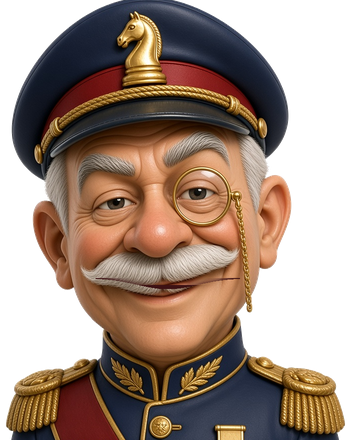
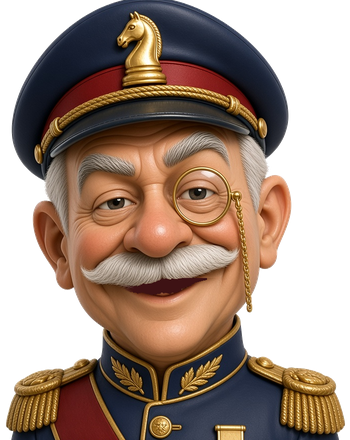
Explainer clips: speech cloud, word-by-word text, steady moustache (#133)
* Explainer clips: fixed moustache, speech cloud, words pop in one by one (test cut STOPAT)

Claude-Session: https://claude.ai/code/session_01242z9HPDfponsdX6jdQH6z

* Talking General: no moustache hair pulled into the lower lip

Claude-Session: https://claude.ai/code/session_01242z9HPDfponsdX6jdQH6z

* Speech cloud: tail from the lower edge to the General's mouth

Claude-Session: https://claude.ai/code/session_01242z9HPDfponsdX6jdQH6z

* Speech cloud: short curved tail with a round tip

Claude-Session: https://claude.ai/code/session_01242z9HPDfponsdX6jdQH6z

* Explainer clip final: README for the speech cloud and test cuts

Claude-Session: https://claude.ai/code/session_01242z9HPDfponsdX6jdQH6z

---------

diff --git a/tools/clip/capture.js b/tools/clip/capture.js
@@ -12,7 +12,7 @@ const pop=(p,t,sq)=>p.evaluate(([t,sq])=>{ const old=document.getElementById('vi
   const w=e.firstChild.offsetWidth, x=Math.max(w/2+10,Math.min(innerWidth-w/2-10,(q.x+1)/2*innerWidth)); e.style.left=x+'px'; },[t,sq]);
 // spoken caption at the bottom (wraps); empty text hides it
 const cap=(p,t)=>p.evaluate(t=>{ const g=document.getElementById('vidGen'), bub=document.getElementById('vidBub');
-  if(g&&g.style.display==='block'){ bub.innerHTML=t||''; bub.style.display=t?'block':'none'; return; }
+  if(g&&g.style.display==='block'){ window.__bubSet(t); return; }
   let e=document.getElementById('vidCap'); if(!e){ e=document.createElement('div'); e.id='vidCap'; document.body.appendChild(e); }
   e.innerHTML=t||''; e.style.display=t?'block':'none'; },t);
 // drawn over the board every frame: box = the squares the lone black king is confined to by the white queen (red),
@@ -39,9 +39,34 @@ const ov=(p,o)=>p.evaluate(o=>{ let svg=document.getElementById('vidOv'); if(!sv
 const gen=(p,dir,on)=>p.evaluate(async([dir,on])=>{ let g=document.getElementById('vidGen');
   if(!g){ g=document.createElement('div'); g.id='vidGen'; for(let k=0;k<6;k++){ const i=new Image(); i.src='/marketing/'+dir+'/general/m'+k+'.png'; g.appendChild(i); }
     document.body.appendChild(g); const b=document.createElement('div'); b.id='vidBub'; document.body.appendChild(b);
-    window.__env=await (await fetch('/marketing/'+dir+'/general/env.json')).json(); await Promise.all([...g.children].map(i=>i.decode())); }
+    window.__env=await (await fetch('/marketing/'+dir+'/general/env.json')).json(); await Promise.all([...g.children].map(i=>i.decode()));
+    // speech cloud: the text is laid out in full (so the cloud has its final size at once), then every word pops in
+    // when the General says it (spread over the sentence by letters, ~15 letters a second)
+    window.__bubSet=t=>{ const bub=document.getElementById('vidBub'); window.__bub=null; if(!t){ bub.style.display='none'; return; }
+      bub.innerHTML='<svg class="cloud"></svg><div class="txt"></div>'; const tx=bub.lastChild; tx.innerHTML=t;
+      const words=[]; (function wrap(n){ for(const c of [...n.childNodes]){ if(c.nodeType===3){ const f=document.createDocumentFragment();
+          for(const part of c.textContent.split(/(\s+)/)){ if(!part) continue; if(/^\s+$/.test(part)){ f.appendChild(document.createTextNode(part)); continue; }
+            const sp=document.createElement('span'); sp.className='w'; sp.textContent=part; f.appendChild(sp); words.push(sp); } c.replaceWith(f); } else wrap(c); } })(tx);
+      bub.style.display='block'; const W=tx.offsetWidth, H=tx.offsetHeight, P=16, w=W+2*P, h=H+2*P;
+      // scalloped cloud around the text box plus a short pointed tail to the General on the left
+      const r=13, side=(x0,y0,x1,y1)=>{ const L=Math.hypot(x1-x0,y1-y0), n=Math.max(2,Math.round(L/(2*r))); let d='';
+        for(let i=1;i<=n;i++){ const x=x0+(x1-x0)*i/n, y=y0+(y1-y0)*i/n, R=L/n*.62; d+=` A ${R} ${R} 0 0 1 ${x.toFixed(1)} ${y.toFixed(1)}`; } return d; };
+      // a short, curved tail with a round tip from the cloud's lower edge towards the General's mouth (only half way)
+      const gr=document.getElementById('vidGen').getBoundingClientRect(), bl=bub.getBoundingClientRect().left-P, bt=bub.getBoundingClientRect().top-P;
+      const B0=14, B1=60, mxp=gr.left+gr.width*.62-bl, myp=gr.top+gr.height*.62-bt, bx=(B0+B1)/2;
+      const Tx=bx+(mxp-bx)*.5, Ty=h+(myp-h)*.5, f=v=>v.toFixed(1);
+      const d='M 0 0'+side(0,0,w,0)+side(w,0,w,h)+side(w,h,B1,h)
+        +` Q ${f(B1-4)} ${f(h+(Ty-h)*.7)} ${f(Tx+4)} ${f(Ty-1)} A 5 5 0 0 1 ${f(Tx-2)} ${f(Ty+3)} Q ${f(B0+(Tx-B0)*.15)} ${f(h+(Ty-h)*.45)} ${B0} ${h}`
+        +side(B0,h,0,h)+side(0,h,0,0)+' Z';
+      const sv=bub.firstChild; sv.setAttribute('width',w); sv.setAttribute('height',h); sv.style.left=(-P)+'px'; sv.style.top=(-P)+'px';
+      sv.innerHTML='<path d="'+d+'" fill="#fffaf0" stroke="#15130f" stroke-width="3" stroke-linejoin="round"/>';
+      let acc=0; const total=words.reduce((a,x)=>a+x.textContent.length+1,0);
+      window.__bub={t0:performance.now(),words:words.map(x=>{ const at=acc/15; acc+=x.textContent.length+1; return {el:x,at}; }),total}; };
+  }
   g.style.display=on?'block':'none'; if(!on){ document.getElementById('vidBub').style.display='none'; window.__genTick=null; return; }
   window.__genTick=()=>{ const t=(performance.now()-window.__t0)/1000, f=Math.round(t*24), k=window.__env[f]||0;
+    const B=window.__bub; if(B){ const s=(performance.now()-B.t0)/1000; for(const w of B.words){ const u=Math.max(0,Math.min(1,(s-w.at)/.16)), e=1-Math.pow(1-u,3);
+      w.el.style.opacity=e; w.el.style.transform='translateY('+((1-e)*10).toFixed(1)+'px) scale('+(.6+.4*e).toFixed(3)+')'; } }
     [...g.children].forEach((im,i)=>im.style.visibility=i===k?'visible':'hidden');
     g.style.transform='rotate('+(k?Math.sin(t*9)*1.6*k/5:0)+'deg) translateY('+(-k*.6)+'px)'; };
   window.__genTick(); },[dir,on]);
@@ -362,7 +387,7 @@ const SCRIPTS={
  const START=+(process.env.START||0);
  const ONLY=+(process.env.ONLY||0); // re-render just the first ONLY frames (e.g. after changing the hook), keep the rest
  const t0=await p.evaluate(()=>{ window.__rec.length=0; window.__t0=performance.now(); return performance.now(); });
- const shoot=async(ms,each)=>{ const k=Math.round(ms/dtms); for(let i=0;i<k;i++){ if(each) await each(k>1?i/(k-1):1); await p.clock.runFor(dtms); if(n<START||(ONLY&&n>=ONLY)||(process.env.EVERY&&n%+process.env.EVERY)){ n++; continue; } await p.evaluate(()=>{ if(window.__badgeTick) window.__badgeTick(); if(window.__capTick) window.__capTick(); if(window.__ovTick) window.__ovTick(); if(window.__genTick) window.__genTick(); for(const a of document.getAnimations()){ if(a.__st===undefined){ a.__st=performance.now(); a.pause(); } a.currentTime=performance.now()-a.__st; } }); await p.screenshot({path:`${FR}/f${String(n++).padStart(5,'0')}.jpg`,type:'jpeg',quality:88}); } };
+ const shoot=async(ms,each)=>{ const k=Math.round(ms/dtms); for(let i=0;i<k;i++){ if(each) await each(k>1?i/(k-1):1); await p.clock.runFor(dtms); if(process.env.STOPAT&&n>=+process.env.STOPAT){ console.log('frames',n); process.exit(0); } if(n<START||(ONLY&&n>=ONLY)||(process.env.EVERY&&n%+process.env.EVERY)){ n++; continue; } await p.evaluate(()=>{ if(window.__badgeTick) window.__badgeTick(); if(window.__capTick) window.__capTick(); if(window.__ovTick) window.__ovTick(); if(window.__genTick) window.__genTick(); for(const a of document.getAnimations()){ if(a.__st===undefined){ a.__st=performance.now(); a.pause(); } a.currentTime=performance.now()-a.__st; } }); await p.screenshot({path:`${FR}/f${String(n++).padStart(5,'0')}.jpg`,type:'jpeg',quality:88}); } };
  // a piece is picked (select sound), then moves
  const mv=async(from,to,hold,each)=>{ if(from==='undo'){ await p.evaluate(()=>window.__v().undo()); return shoot(hold||0); } log.push([n/FPS,from,to]); await p.evaluate(([a,c])=>{ window.__rec.push([performance.now()-120,'sel',.8]); window.__mover=window.__v().pieces()[a]; window.__v().doMove({from:a,to:c}); },[from,to]); await shoot(hold,each&&(u=>each(u,to))); };
  if(SC.start) await fly(p,...SC.start.slice(0,4),1,SC.start[4]);

diff --git a/tools/clip/overlay.html b/tools/clip/overlay.html
@@ -23,10 +23,11 @@ body.compact #vidTitle .l2{top:3%;transition:top .5s ease-in-out}
 /* the talking General top left (mouth frames from the voice's loudness) with his speech bubble to the right */
 #vidGen{position:fixed;left:6px;top:8.5%;width:150px;height:189px;z-index:61;display:none;transform-origin:50% 90%}
 #vidGen img{position:absolute;inset:0;width:100%;height:100%;visibility:hidden;filter:drop-shadow(0 4px 10px rgba(0,0,0,.6))}
-#vidBub{position:fixed;left:160px;top:10%;max-width:300px;width:max-content;z-index:61;display:none;background:#fffaf0;color:#15130f;border:3px solid #15130f;border-radius:18px;padding:10px 14px;font-family:'Barlow Condensed',sans-serif;font-weight:700;font-size:27px;line-height:1.15;box-shadow:0 6px 16px rgba(0,0,0,.45)}
-#vidBub b{color:#b3261e}
-#vidBub::before{content:'';position:absolute;left:-17px;top:26px;border:9px solid transparent;border-right:16px solid #15130f}
-#vidBub::after{content:'';position:absolute;left:-11px;top:29px;border:6px solid transparent;border-right:12px solid #fffaf0}
+#vidBub{position:fixed;left:166px;top:9.5%;z-index:61;display:none}
+#vidBub .cloud{position:absolute;overflow:visible;filter:drop-shadow(0 6px 10px rgba(0,0,0,.45))}
+#vidBub .txt{position:relative;max-width:290px;width:max-content;font-family:'Barlow Condensed',sans-serif;font-weight:700;font-size:27px;line-height:1.15;color:#15130f}
+#vidBub .txt b{color:#b3261e}
+#vidBub .w{display:inline-block;opacity:0;white-space:pre}
 #vidOv{position:fixed;inset:0;z-index:44;pointer-events:none;width:100vw;height:100vh}
 @keyframes popIn{from{transform:scale(.4);opacity:0}to{transform:scale(1);opacity:1}}
 #vidHook{position:fixed;left:0;right:0;top:34%;display:none;z-index:58;text-align:center;pointer-events:none}

diff --git a/marketing/explain-kq/make_general.py b/marketing/explain-kq/make_general.py
@@ -8,24 +8,36 @@ here=os.path.dirname(os.path.abspath(__file__))
 src=Image.open(os.path.join(here,'../../brand/general/general-gambit-cutout.png')).convert('RGBA')
 S=np.asarray(src).astype(np.float32); H,W=S.shape[:2]
 box=(90,20,790,900)                       # cap to chest
-CUT, CX, SX = 576, 425, 85                # mouth line under the moustache, mouth centre, mouth half-width
+CUT, CX, SX = 576, 425, 58                # mouth line under the moustache, mouth centre, mouth half-width
 CHIN, COLLAR = 700, 770                   # full jaw movement down to the chin, fading out to the collar
 ys,xs=np.mgrid[0:H,0:W].astype(np.float32)
 wx=np.exp(-((xs-CX)/SX)**2); wx[wx<.04]=0
 fall=np.clip((COLLAR-ys)/(COLLAR-CHIN),0,1); fall=fall*fall*(3-2*fall)
 mouth=np.array([62,18,20,255],np.float32)
+# moustache mask: grey/white hair in the moustache area, grown by a few pixels so the soft hair edge is included
+r,g,b=S[...,0],S[...,1],S[...,2]; mx=np.maximum(np.maximum(r,g),b); mn=np.minimum(np.minimum(r,g),b)
+hair=(mx>110)&((mx-mn)<42)&(xs>235)&(xs<615)&(ys>470)&(ys<612)
+m=Image.fromarray((hair*255).astype(np.uint8)).filter(ImageFilter.MaxFilter(5)).filter(ImageFilter.MinFilter(3))
+MUST=np.asarray(m)>127
+# for sampling the jaw, everything from the mouth line down to a few pixels below the moustache's lower edge counts
+# as mouth, so no hair or its soft fringe gets pulled down into the lower lip
+bottom=np.where(MUST.any(0),H-1-np.argmax(MUST[::-1],0),0)          # lowest moustache pixel per column
+band=(ys>=CUT-30)&(ys<=bottom[None,:]+7)&(S[...,3]>200)
+aw=(np.clip((wx-.06)/.2,0,1)*band)[...,None]                     # fades out sideways, no hard edge
+SK=S*(1-aw)+mouth*aw
 for k in range(6):
     d=k*5.5; off=d*wx
     out=S.copy(); below=ys>=CUT
     sy=np.where(below, ys-off*fall, ys)
-    gap=below&(off>1.2)&(ys<CUT+off)                 # the opened mouth
+    gap=below&(off>3.5)&(ys<CUT+off)                 # the opened mouth
     sy=np.clip(sy,0,H-1); y0=np.floor(sy).astype(int); y1=np.minimum(y0+1,H-1); t=(sy-y0)[...,None]
-    warped=S[y0,xs.astype(int)]*(1-t)+S[y1,xs.astype(int)]*t
-    out[below]=warped[below]
+    # samples that would pull moustache hair down into the lip become mouth (the dark gap behind the moustache)
+    xi=xs.astype(int); warped=SK[y0,xi]*(1-t)+SK[y1,xi]*t
+    mv=below&(off>.5); out[mv]=warped[mv]                # only where the jaw really moves
     out[gap]=mouth
     im=Image.fromarray(out.clip(0,255).astype(np.uint8),'RGBA')
-    # moustache on top, soft edge
-    mt=src.crop((230,470,620,CUT+14)); mm=Image.new('L',mt.size,0); ImageDraw.Draw(mm).ellipse((0,-40,mt.width,mt.height),fill=255)
-    im.paste(mt,(230,470),Image.composite(mt.getchannel('A'),Image.new('L',mt.size,0),mm.filter(ImageFilter.GaussianBlur(5))))
+    # the whole moustache stays exactly where it is: its grey/white hair pixels (low saturation, bright) are copied back
+    # unwarped on top, so neither the tips nor single grey strands move with the jaw
+    out2=np.asarray(im).astype(np.float32).copy(); out2[MUST]=S[MUST]; im=Image.fromarray(out2.clip(0,255).astype(np.uint8),'RGBA')
     im.crop(box).resize((350,440),Image.LANCZOS).save(os.path.join(here,f'general/m{k}.png'),optimize=True)
 print('ok')

diff --git a/tools/clip/README.md b/tools/clip/README.md
@@ -41,9 +41,9 @@ Software rendering takes about 20 minutes per 28-second clip.
 ## Explainer clips ("General Gambit explains")
 - Script `explain_kq` in `capture.js`: captions `cap()` timed to the voice (`CAPS` with video seconds), `ov()` draws the
   lone king's box as red squares on the board plus arrows, `mv('undo')` takes a move back (the stalemate trap).
-- The talking General (top left, speech bubble with the captions): `gen(p,dir,true)`; mouth frames
+- The talking General (top left, a speech cloud with a short curved tail towards his mouth; the words of each caption pop in one by one, ~15 letters a second; the moustache never moves, `make_general.py` keeps it unwarped): `gen(p,dir,true)`; mouth frames
   `marketing/<dir>/general/m0..m5.png` from `make_general.py` (smooth jaw warp under the moustache), picked per frame from
   `general/env.json` (`envelope.py`, loudness of the voice at its place in the clip). Keep the top ~30 % of the frame free
   of pieces (camera a bit lower).
 - Sound: `python3 mix.py explain_kq`, then `marketing/<dir>/mix.sh` puts the voice on top (music ducks).
-- Preview: `EVERY=48` writes only every 48th frame (about 20 minutes instead of 45).
+- Preview: `EVERY=48` writes only every 48th frame (about 20 minutes instead of 45); `STOPAT=n` stops after n frames (test cut of the start).
